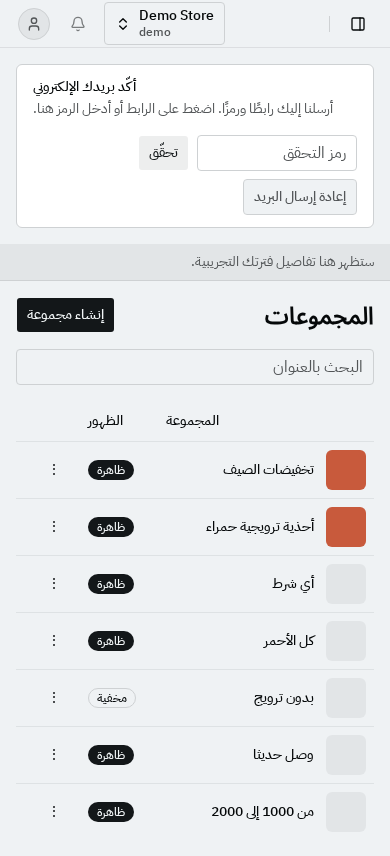
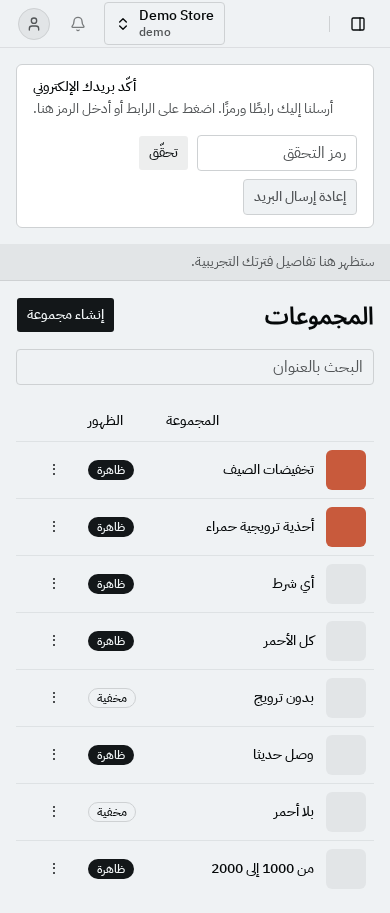
docs(evidence): rerun P2.S3 with the any-of label and the tightened checks

diff --git a/docs/evidence/P2.S3/README.md b/docs/evidence/P2.S3/README.md
@@ -2,7 +2,7 @@
 
 Transcripts and screenshots from a live stack (CLAUDE.md §3a.14), produced by `scripts/evidence/P2.S3.sh`. Data is synthetic
 (the demo seed plus the tags, brand, products and collections the script creates). Image built from a tree with no
-uncommitted change outside the evidence folders and browser tests, last image-relevant commit `c6f588eb41a58434a5a66f3a91c1b0b3d7e73f4f`. Compose
+uncommitted change outside the evidence folders and browser tests, last image-relevant commit `1bea1ee577672baabe535a5234d228b46ec0ee8a`. Compose
 project `cod-evidence`. Every transcript shows the GraphQL and the REST form of the operations it covers (D2314, D2315).
 
 ## API transcripts
@@ -43,6 +43,7 @@ Each line below is a failing assertion in the script if it does not hold.
 - The automatic collection shows its 3 condition rows and a preview count of 1 (All), the API's count.
 - Switched to Any without saving, the preview counts 5, the API's count for Any.
 - The product editor's collections block lists the manual collection of the product.
+- The same block lists the automatic collection أحذية ترويجية حمراء the product matches by rule.
 - Catalog's product list filtered by the manual collection shows exactly its 3 products.
 - The owner's second store shows the empty collections list and no row.
 
@@ -65,14 +66,14 @@ name of the store (اللون here), the operators "is any of" / "is not" (and "
 
 | Screen | ar desktop / mobile, en desktop / mobile |
 | --- | --- |
-| `collections-list` | Seven collections of the Arabic demo store in position order: the manual تخفيضات الصيف (image, 3 products, position 0) first, then the automatic ones with their member counts; بدون ترويج shows the Hidden badge. On a phone the table keeps Collection, Visibility and the row menu. |
+| `collections-list` | Nine collections of the Arabic demo store in position order: the manual تخفيضات الصيف (image, 3 products, position 0) first, then the automatic ones with their member counts; بدون ترويج and بلا أحمر (اللون is not [أحمر], 7 products) show the Hidden badge. On a phone the table keeps Collection, Visibility and the row menu. |
 | `collections-empty` | The owner's second store (Demo Store 2 in the switcher): the empty-state sentence "No collections yet…", the search and Create collection. |
 | `collection-new-manual` | "New collection" titled مختارات الجري / Running picks, Manual selected, the three products picked through Add products in the order picked (حذاء جري أحمر, حذاء جري أزرق, حقيبة جري) with drag handles, prices and Remove; slug empty with its "made from the title" hint; visibility on, position 0. On a phone the cards stack, Products before Image. |
-| `collection-edit-automatic` | أحذية ترويجية حمراء: image, Automatic, All conditions selected, three rows Tag is any of [ترويج الأدلة], Price is between 2000 and 5000 (DZD fields), اللون is any of [أحمر]; preview "Matching products: 1" listing حذاء جري أحمر at 2,500, the API's count. On a phone each row stacks field, operator and Remove. |
+| `collection-edit-automatic` | أحذية ترويجية حمراء: image, Automatic, All conditions selected, three rows Tag is any of [ترويج الأدلة], Price is between 2000 and 5000 (DZD fields), اللون is any of [أحمر] (in Arabic the operator reads أيٌّ من); preview "Matching products: 1" listing حذاء جري أحمر at 2,500, the API's count. On a phone each row stacks field, operator and Remove. |
 | `collection-preview-any` | The same rule switched to Any condition without saving: preview "Matching products: 5" (p1-p4 and a seed shirt in the price range); p5, whose only red variant is hidden, is absent. |
 | `collection-delete-dialog` | "Delete this collection?" naming تخفيضات الصيف, saying its products stay in the store, Cancel and Delete (destructive tint); the Arabic name sits isolated inside the English sentence. On a phone the buttons stack. |
 | `product-editor-collections` | Catalog's product editor of حذاء جري أحمر with our Collections card in the side column: "Chosen by hand" with تخفيضات الصيف ticked and Save collections, "Added by rule" listing the three automatic collections it matches. On a phone the card follows Status and organisation. |
 | `product-list-collection-filter` | Catalog's product list with the collection filter set to تخفيضات الصيف: exactly its three products. On a phone the filters stack. |
 
-Noted, not changed: the Arabic operator "is any of" reads أحد, short and ambiguous on its own; it joins the native review
-of the collections wording (D2326) filed at the end of the session.
+Fixed after the first look: the Arabic operator "is any of" read أحد, which on its own means "one" or "Sunday"; it now
+reads أيٌّ من, so a row reads اللون أيٌّ من [أحمر]. The collections wording itself stays in the native review (D2326).

diff --git a/scripts/evidence/P2.S3-seen.md b/scripts/evidence/P2.S3-seen.md
@@ -17,14 +17,14 @@ name of the store (اللون here), the operators "is any of" / "is not" (and "
 
 | Screen | ar desktop / mobile, en desktop / mobile |
 | --- | --- |
-| `collections-list` | Seven collections of the Arabic demo store in position order: the manual تخفيضات الصيف (image, 3 products, position 0) first, then the automatic ones with their member counts; بدون ترويج shows the Hidden badge. On a phone the table keeps Collection, Visibility and the row menu. |
+| `collections-list` | Nine collections of the Arabic demo store in position order: the manual تخفيضات الصيف (image, 3 products, position 0) first, then the automatic ones with their member counts; بدون ترويج and بلا أحمر (اللون is not [أحمر], 7 products) show the Hidden badge. On a phone the table keeps Collection, Visibility and the row menu. |
 | `collections-empty` | The owner's second store (Demo Store 2 in the switcher): the empty-state sentence "No collections yet…", the search and Create collection. |
 | `collection-new-manual` | "New collection" titled مختارات الجري / Running picks, Manual selected, the three products picked through Add products in the order picked (حذاء جري أحمر, حذاء جري أزرق, حقيبة جري) with drag handles, prices and Remove; slug empty with its "made from the title" hint; visibility on, position 0. On a phone the cards stack, Products before Image. |
-| `collection-edit-automatic` | أحذية ترويجية حمراء: image, Automatic, All conditions selected, three rows Tag is any of [ترويج الأدلة], Price is between 2000 and 5000 (DZD fields), اللون is any of [أحمر]; preview "Matching products: 1" listing حذاء جري أحمر at 2,500, the API's count. On a phone each row stacks field, operator and Remove. |
+| `collection-edit-automatic` | أحذية ترويجية حمراء: image, Automatic, All conditions selected, three rows Tag is any of [ترويج الأدلة], Price is between 2000 and 5000 (DZD fields), اللون is any of [أحمر] (in Arabic the operator reads أيٌّ من); preview "Matching products: 1" listing حذاء جري أحمر at 2,500, the API's count. On a phone each row stacks field, operator and Remove. |
 | `collection-preview-any` | The same rule switched to Any condition without saving: preview "Matching products: 5" (p1-p4 and a seed shirt in the price range); p5, whose only red variant is hidden, is absent. |
 | `collection-delete-dialog` | "Delete this collection?" naming تخفيضات الصيف, saying its products stay in the store, Cancel and Delete (destructive tint); the Arabic name sits isolated inside the English sentence. On a phone the buttons stack. |
 | `product-editor-collections` | Catalog's product editor of حذاء جري أحمر with our Collections card in the side column: "Chosen by hand" with تخفيضات الصيف ticked and Save collections, "Added by rule" listing the three automatic collections it matches. On a phone the card follows Status and organisation. |
 | `product-list-collection-filter` | Catalog's product list with the collection filter set to تخفيضات الصيف: exactly its three products. On a phone the filters stack. |
 
-Noted, not changed: the Arabic operator "is any of" reads أحد, short and ambiguous on its own; it joins the native review
-of the collections wording (D2326) filed at the end of the session.
+Fixed after the first look: the Arabic operator "is any of" read أحد, which on its own means "one" or "Sunday"; it now
+reads أيٌّ من, so a row reads اللون أيٌّ من [أحمر]. The collections wording itself stays in the native review (D2326).

diff --git a/docs/evidence/P2.S3/api/rules.md b/docs/evidence/P2.S3/api/rules.md
@@ -244,7 +244,7 @@ content-type: application/json; charset=utf-8
 }
 ```
 
-### GET /catalog/collections/:id/products of the Any collection: p1-p4, not p5 (its only red variant is hidden, 1200 is out of range, no promo tag)
+### GET /catalog/collections/:id/products of the Any collection: p1-p4 and the seed's shirt (price in range), not p5 (its only red variant is hidden, 1200 is out of range, no promo tag)
 
 ```http
 GET http://127.0.0.1:23100/catalog/collections/7/products?take=50
@@ -576,6 +576,137 @@ content-type: application/json; charset=utf-8
     }
   ],
   "totalItems": 3
+}
+```
+
+### AC3: createStoreCollection, اللون is not [أحمر]
+
+```http
+POST http://127.0.0.1:23100/admin-api?languageCode=en
+Content-Type: application/json
+Authorization: Bearer [REDACTED]
+vendure-token: [REDACTED]
+
+{
+  "query": "mutation ($input: CreateStoreCollectionInput!) { createStoreCollection(input: $input) { id title slug description featuredAsset { id } mode rule { version match conditions { field operator option values min max value } } visible position productCount } }",
+  "variables": {
+    "input": {
+      "title": "بلا أحمر",
+      "visible": false,
+      "position": 7,
+      "mode": "automatic",
+      "rule": {
+        "version": 1,
+        "match": "all",
+        "conditions": [
+          {
+            "field": "option",
+            "option": "اللون",
+            "operator": "is_not",
+            "values": [
+              "أحمر"
+            ]
+          }
+        ]
+      }
+    }
+  }
+}
+
+HTTP/1.1 200 OK
+cache-control: no-store
+content-type: application/json; charset=utf-8
+
+{
+  "data": {
+    "createStoreCollection": {
+      "id": "10",
+      "title": "بلا أحمر",
+      "slug": "بلا-أحمر",
+      "description": null,
+      "featuredAsset": null,
+      "mode": "automatic",
+      "rule": {
+        "version": 1,
+        "match": "all",
+        "conditions": [
+          {
+            "field": "option",
+            "operator": "is_not",
+            "option": "اللون",
+            "values": [
+              "أحمر"
+            ],
+            "min": null,
+            "max": null,
+            "value": null
+          }
+        ]
+      },
+      "visible": false,
+      "position": 7,
+      "productCount": 7
+    }
+  }
+}
+```
+
+### GET /catalog/collections/:id/products of اللون is not [أحمر]: p5 (its red variant is hidden), p4 (no colour) and p2 (blue), neither p1 nor p3
+
+```http
+GET http://127.0.0.1:23100/catalog/collections/10/products?take=50
+Authorization: Bearer [REDACTED]
+vendure-token: [REDACTED]
+
+HTTP/1.1 200 OK
+content-type: application/json; charset=utf-8
+
+{
+  "items": [
+    {
+      "productId": "15",
+      "title": "قبعة صيفية",
+      "status": "active",
+      "price": 1200
+    },
+    {
+      "productId": "14",
+      "title": "حقيبة جري",
+      "status": "active",
+      "price": 6000
+    },
+    {
+      "productId": "12",
+      "title": "حذاء جري أزرق",
+      "status": "active",
+      "price": 2800
+    },
+    {
+      "productId": "5",
+      "title": "حقيبة قماشية تجريبية",
+      "status": "active",
+      "price": 1800
+    },
+    {
+      "productId": "4",
+      "title": "قارورة ماء تجريبية",
+      "status": "active",
+      "price": 1500
+    },
+    {
+      "productId": "3",
+      "title": "قبعة تجريبية",
+      "status": "hidden",
+      "price": 1200
+    },
+    {
+      "productId": "2",
+      "title": "كوب سيراميك تجريبي",
+      "status": "draft",
+      "price": 900
+    }
+  ],
+  "totalItems": 7
 }
 ```
 

diff --git a/docs/evidence/P2.S3/api/recompute.md b/docs/evidence/P2.S3/api/recompute.md
@@ -13,7 +13,7 @@ vendure-token: [REDACTED]
 {
   "query": "query ($id: ID!, $options: StoreCollectionProductListInput) { storeCollectionProducts(id: $id, options: $options) { totalItems items { productId title status price } } }",
   "variables": {
-    "id": "10",
+    "id": "11",
     "options": {
       "take": 50
     }
@@ -94,7 +94,7 @@ vendure-token: [REDACTED]
 {
   "query": "query ($id: ID!, $options: StoreCollectionProductListInput) { storeCollectionProducts(id: $id, options: $options) { totalItems items { productId title status price } } }",
   "variables": {
-    "id": "10",
+    "id": "11",
     "options": {
       "take": 50
     }
@@ -125,7 +125,7 @@ content-type: application/json; charset=utf-8
 ### GET /catalog/collections/:id/products: the same
 
 ```http
-GET http://127.0.0.1:23100/catalog/collections/10/products
+GET http://127.0.0.1:23100/catalog/collections/11/products
 Authorization: Bearer [REDACTED]
 vendure-token: [REDACTED]
 
@@ -156,7 +156,7 @@ vendure-token: [REDACTED]
 {
   "query": "query ($id: ID!, $options: StoreCollectionProductListInput) { storeCollectionProducts(id: $id, options: $options) { totalItems items { productId title status price } } }",
   "variables": {
-    "id": "11",
+    "id": "12",
     "options": {
       "take": 50
     }
@@ -261,8 +261,8 @@ content-type: application/json; charset=utf-8
         ]
       }
     ],
-    "createdAt": "2026-11-21T03:14:16.434Z",
-    "updatedAt": "2026-11-21T03:14:33.243Z",
+    "createdAt": "2026-11-21T03:47:45.457Z",
+    "updatedAt": "2026-11-21T03:48:02.881Z",
     "tagIds": [
       "<TAG_NEW>"
     ],
@@ -317,7 +317,7 @@ vendure-token: [REDACTED]
 {
   "query": "query ($id: ID!, $options: StoreCollectionProductListInput) { storeCollectionProducts(id: $id, options: $options) { totalItems items { productId title status price } } }",
   "variables": {
-    "id": "11",
+    "id": "12",
     "options": {
       "take": 50
     }
@@ -366,7 +366,7 @@ content-type: application/json; charset=utf-8
 ### GET /catalog/collections/:id/products: the same
 
 ```http
-GET http://127.0.0.1:23100/catalog/collections/11/products
+GET http://127.0.0.1:23100/catalog/collections/12/products
 Authorization: Bearer [REDACTED]
 vendure-token: [REDACTED]
 

diff --git a/docs/evidence/P2.S3/api/preview.md b/docs/evidence/P2.S3/api/preview.md
@@ -285,7 +285,7 @@ content-type: application/json; charset=utf-8
 }
 ```
 
-### GET /catalog/collections after the previews: still 7 collections, nothing saved
+### GET /catalog/collections after the previews: still 8 collections, nothing saved
 
 ```http
 GET http://127.0.0.1:23100/catalog/collections?take=1
@@ -303,7 +303,7 @@ content-type: application/json; charset=utf-8
       "description": "مختارات الصيف بأسعار مخفضة",
       "featuredAsset": {
         "id": "1",
-        "preview": "http://127.0.0.1:23100/assets/b/249734040897200128/s/<STORE_DEMO>/preview/c0/c0ae59d316cfce0b4d5a31d8855ca62a__preview.png"
+        "preview": "http://127.0.0.1:23100/assets/b/249741973760516096/s/<STORE_DEMO>/preview/f8/f8687ba77a6fa478dfa0d1018e827075__preview.png"
       },
       "id": "2",
       "mode": "manual",
@@ -313,7 +313,7 @@ content-type: application/json; charset=utf-8
       "productCount": 3
     }
   ],
-  "totalItems": 7
+  "totalItems": 8
 }
 ```
 

diff --git a/docs/evidence/P2.S3/api/options.md b/docs/evidence/P2.S3/api/options.md
@@ -28,7 +28,7 @@ content-type: application/json; charset=utf-8
           "name": "علامة الأدلة"
         },
         {
-          "id": "249734059209531392",
+          "id": "249741990978134016",
           "name": "علامة تجريبية"
         }
       ],
@@ -42,7 +42,7 @@ content-type: application/json; charset=utf-8
           "name": "ترويج الأدلة"
         },
         {
-          "id": "249734059326971904",
+          "id": "249741991183654912",
           "name": "جديد"
         }
       ],
@@ -81,7 +81,7 @@ content-type: application/json; charset=utf-8
 {
   "brands": [
     {
-      "id": "249734063114428416",
+      "id": "249741996653027328",
       "name": "Marque démo"
     }
   ],
@@ -91,7 +91,7 @@ content-type: application/json; charset=utf-8
       "name": "B evidence tag"
     },
     {
-      "id": "249734063525470208",
+      "id": "249741997026320384",
       "name": "Nouveau"
     }
   ],

diff --git a/docs/evidence/P2.S3/api/product-collections.md b/docs/evidence/P2.S3/api/product-collections.md
@@ -118,6 +118,10 @@ content-type: application/json; charset=utf-8
         {
           "id": "7",
           "title": "أي شرط"
+        },
+        {
+          "id": "10",
+          "title": "بلا أحمر"
         }
       ]
     }
@@ -146,6 +150,10 @@ content-type: application/json; charset=utf-8
     {
       "id": "7",
       "title": "أي شرط"
+    },
+    {
+      "id": "10",
+      "title": "بلا أحمر"
     }
   ]
 }
@@ -234,6 +242,10 @@ content-type: application/json; charset=utf-8
       {
         "id": "8",
         "title": "بدون ترويج"
+      },
+      {
+        "id": "10",
+        "title": "بلا أحمر"
       }
     ]
   }

diff --git a/docs/evidence/P2.S3/api/manual.md b/docs/evidence/P2.S3/api/manual.md
@@ -113,7 +113,7 @@ content-type: application/json; charset=utf-8
   "description": "مختارات الصيف بأسعار مخفضة",
   "featuredAsset": {
     "id": "1",
-    "preview": "http://127.0.0.1:23100/assets/b/249734040897200128/s/<STORE_DEMO>/preview/c0/c0ae59d316cfce0b4d5a31d8855ca62a__preview.png"
+    "preview": "http://127.0.0.1:23100/assets/b/249741973760516096/s/<STORE_DEMO>/preview/f8/f8687ba77a6fa478dfa0d1018e827075__preview.png"
   },
   "id": "2",
   "mode": "manual",

diff --git a/docs/evidence/P2.S3/api/isolation.md b/docs/evidence/P2.S3/api/isolation.md
@@ -277,7 +277,7 @@ content-type: application/json; charset=utf-8
 {
   "statusCode": 403,
   "message": "FORBIDDEN: error.forbidden",
-  "timestamp": "2026-11-21T03:14:36.412Z",
+  "timestamp": "2026-11-21T03:48:06.117Z",
   "path": "/catalog/collections"
 }
 ```
